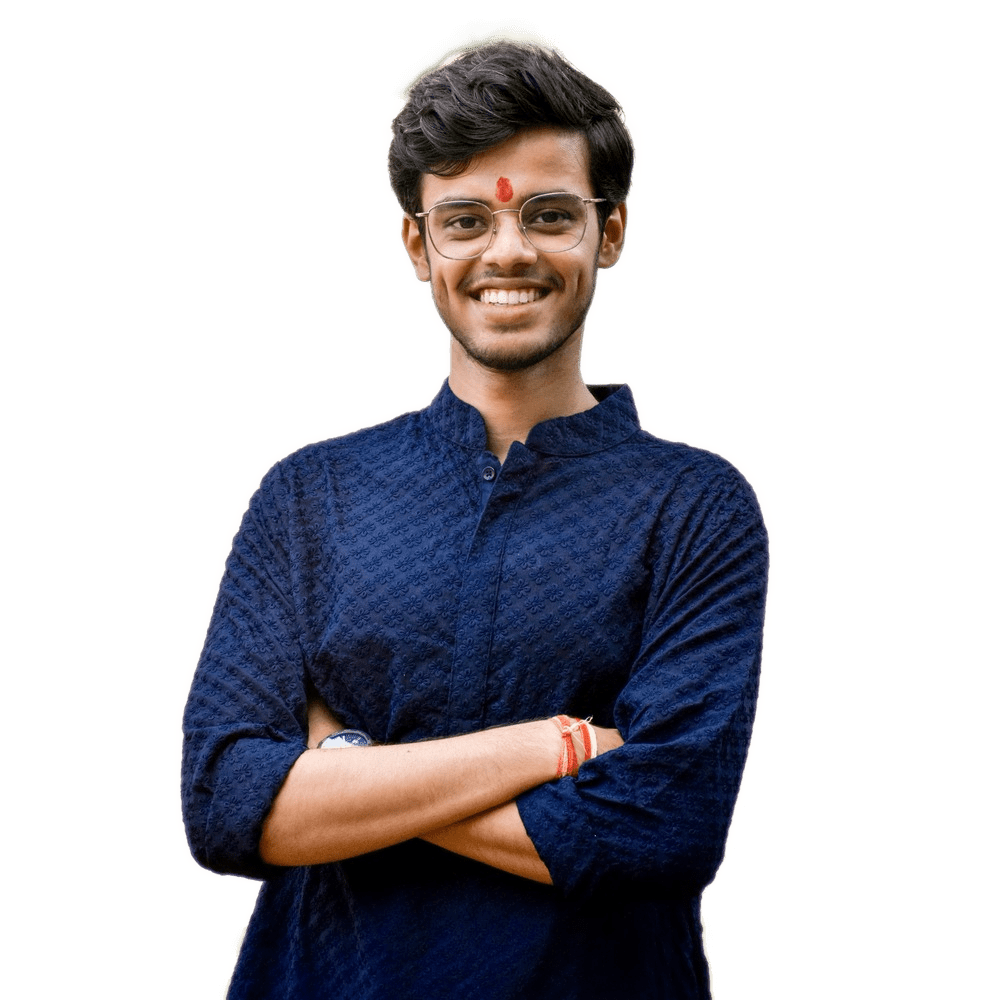
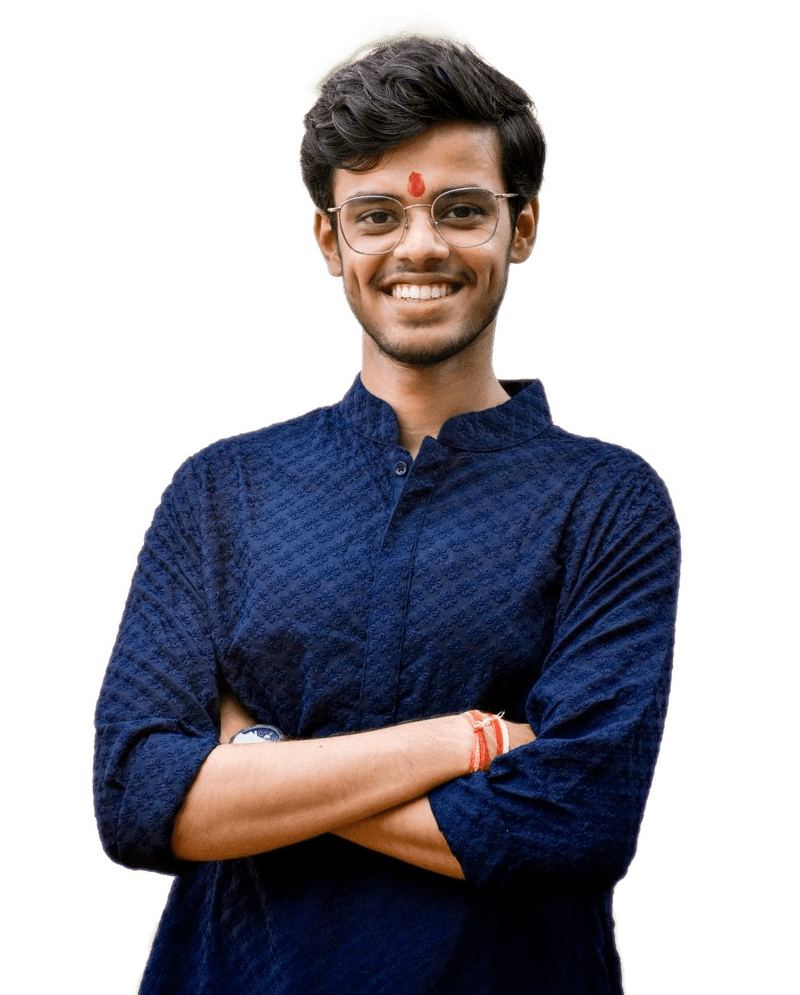
fixed spelling and size of image in speaker section

Changed region(s): [[0.0938, 0.0312, 0.875, 1.0]]

diff --git a/components/Speakers.jsx b/components/Speakers.jsx
@@ -5,7 +5,7 @@ import Image from "next/image";
 const Speakers = () => {
   const speakers = [
     {
-      name: "Hansraj Sharma",
+      name: "Hansaj Sharma",
       img: "/hansraj.png",
       title: "Product Management Associate",
       LinkedInUrl: "https://www.linkedin.com/in/hansajsharma",
